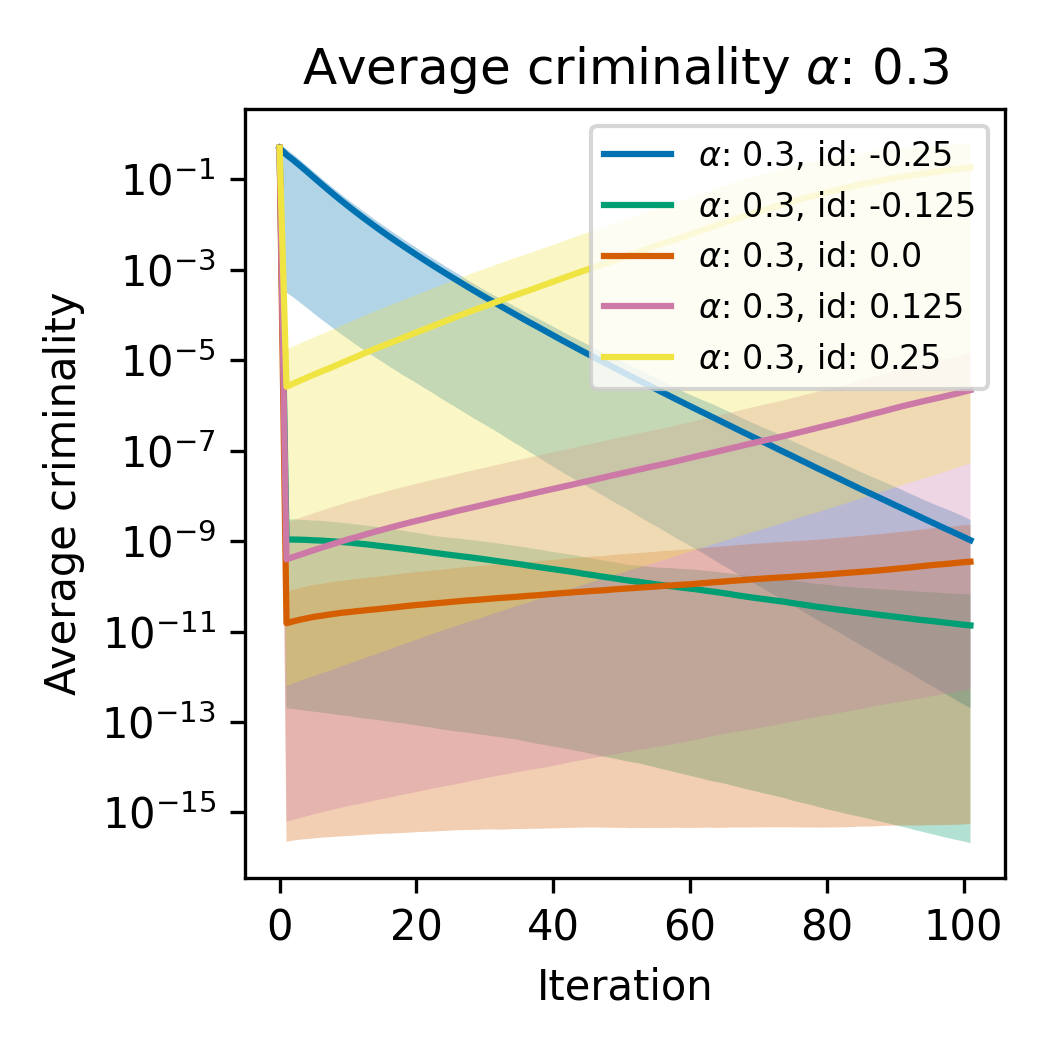
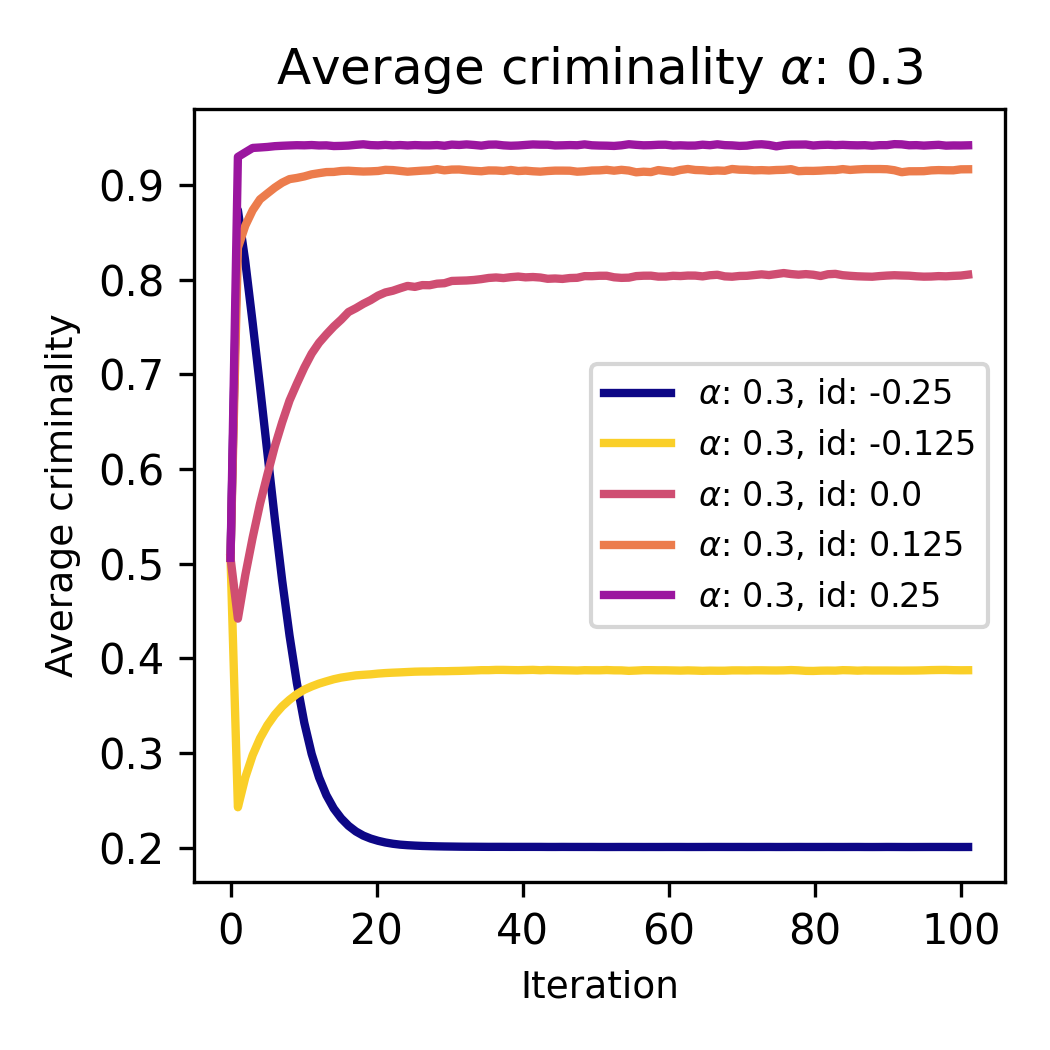
data collapse

diff --git a/power-law.py b/power-law.py
@@ -1,0 +1,50 @@
+import numpy as np
+from plotter import NewPlot
+from modules.avelanches import track_avalanches
+
+side_lenght = [30, 50, 70, 90]
+time_steps = 40000
+threshold = 0.3
+influence_diff = 0
+all_sizes = []
+all_frequencies = []
+
+for side in side_lenght:
+    grid_size = (side, side)
+    # Initialize the grids
+    criminality = np.random.rand(*grid_size)
+    education = np.random.rand(*grid_size)
+    income = np.random.rand(*grid_size)
+
+    all_avelanches_sizes = track_avalanches(criminality, education, income, influence_diff, time_steps, threshold, alpha=0.5) # Track all the avelancehs events and their sizes
+    sizes, counts = np.unique(all_avelanches_sizes, return_counts=True) # Extract the size and number of events per size
+    frequencies = counts / np.sum(counts) # Compute the frequency of each size
+
+    all_sizes.append(sizes)
+    all_frequencies.append(frequencies)
+
+    plot = NewPlot()
+    plot.add_plot(sizes, frequencies)
+    plot.set_logscale(True, True)
+    plot.add_title(f'Avalanche Size Distribution on a {side}x{side} grid')
+    plot.add_labels('Size of Avalanche', 'Frequency')
+    plot.save(f'power_law_{side}')
+
+
+scaled_sizes = []
+scaled_frequencies = []
+D = 0.1
+tau = 0.8
+
+for sizes, frequencies, side in zip(all_sizes, all_frequencies, side_lenght):
+    scaled_sizes.append(sizes / (side ** D))
+    scaled_frequencies.append(frequencies * (side ** tau))
+
+plot = NewPlot()
+for scaled_size, scaled_frequency, side in zip(scaled_sizes, scaled_frequencies, side_lenght):
+    plot.add_plot(scaled_size, scaled_frequency, label=f'{side}x{side}')
+
+plot.add_title('Data Collapse of Avalanche Size Distribution')
+plot.add_labels('Scaled Avelanche Size (s / L^D)', 'Scaled Frequency (P(s) * L^tau)')
+plot.set_logscale(True, True)
+plot.save("Data Collapse")

diff --git a/emergence.py b/emergence.py
@@ -115,7 +115,7 @@ def simulate_average_crime(grid_size=(50, 50), timesteps=100, alpha_range=(.1, .
         if a != a_prime and i != 0:
             plot.add_title(r'Average criminality $\alpha$: {a}'.format(a=a_prime))
             plot.add_labels('Iteration', 'Average criminality')
-            plot.set_logscale(False, True)
+            plot.set_logscale(False, False)
             plot.save(f'average_criminality_alpha_{a_prime}.png')
             plot = NewPlot()
         a_prime = a
@@ -124,10 +124,10 @@ def simulate_average_crime(grid_size=(50, 50), timesteps=100, alpha_range=(.1, .
         plot.add_plot(np.linspace(0, timesteps+1, timesteps + 1), np.mean(line, axis=0), ci_max=max_ci, ci_min=min_ci, label=r"$\alpha$: {a}, id: {b}".format(a=a, b=b))
     plot.add_title(r'Average criminality $\alpha$: {a}'.format(a=a_prime))
     plot.add_labels('Iteration', 'Average criminality')
-    plot.set_logscale(False, True)
+    plot.set_logscale(False, False)
     plot.save(f'average_criminality_alpha_{a_prime}.png')
 
 
-simulate_average_crime()
+simulate_average_crime(amount_of_runs=1)
 simulate_emergence_if()
 simulate_emergence_a()

diff --git a/modules/avelanches.py b/modules/avelanches.py
@@ -15,11 +15,11 @@ def detect_avelanche(criminality, new_criminality, threshold): # Detect if an av
 
     return avalanche_sizes, labeled_avalanches
 
-def track_avalanches(criminality, education, income, influence_diff, time_steps, threshold):
+def track_avalanches(criminality, education, income, influence_diff, time_steps, threshold, alpha=0.3):
 
     all_avelanches_sizes = []
     for step in range(time_steps): # In each time step, update the grid and detect avelanches and their sizes
-        new_criminality = update_grid_nopolice(criminality, education, income, influence_diff)
+        new_criminality = update_grid_nopolice(criminality, education, income, influence_diff, alpha=alpha)
         avalanche_sizes, labeled_avalanches = detect_avelanche(criminality, new_criminality, threshold)
         all_avelanches_sizes.extend(avalanche_sizes)
         criminality = new_criminality.copy()

diff --git a/plotter.py b/plotter.py
@@ -1,6 +1,5 @@
 import numpy as np
 import matplotlib.pyplot as plt
-from itertools import cycle 
 from matplotlib import cycler
 
 b = np.load("data/test.npy")
